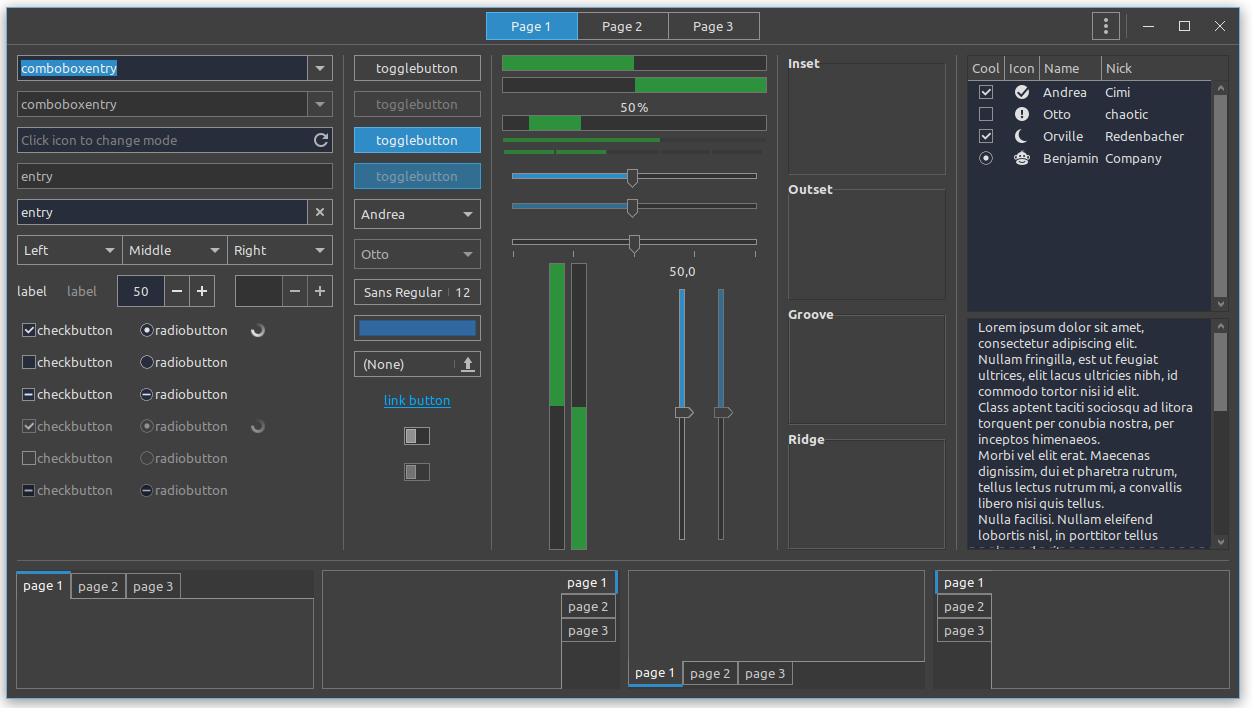
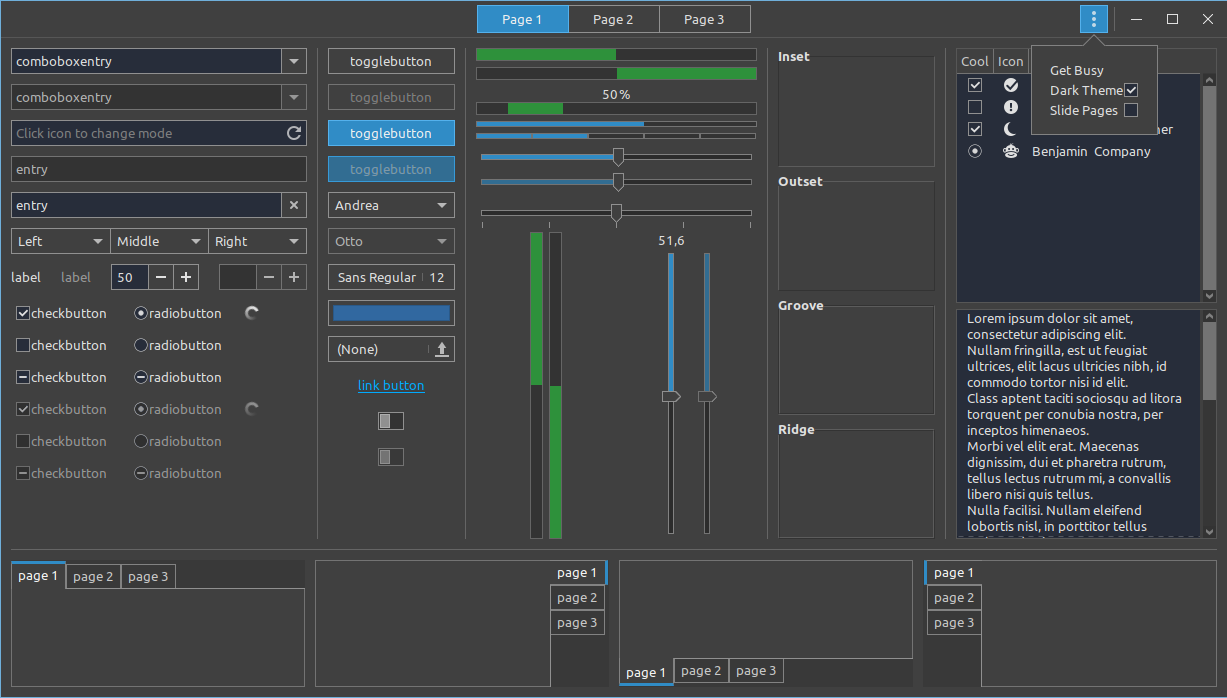
0.18  levelbar, spinbutton:disabled

Changed region(s): [[0.0, 0.0, 1.0, 1.0], [0.6194, 0.6017, 0.6813, 0.6318], [0.6194, 0.4212, 0.6813, 0.4513]]

diff --git a/W9-Dark/gtk-3.20/gtk.css b/W9-Dark/gtk-3.20/gtk.css
@@ -1,4 +1,5 @@
 /*
+0.18  levelbar, spinbutton:disabled
 0.17  progressbar height 11px
 0.16  Gtk3 combobox height
 0.12 levelbar
@@ -1302,9 +1303,9 @@ progressbar {
     progressbar progress:backdrop {
       background-color: shade(#2e913b, 0.9); }
   progressbar trough {
-    border: 1px solid shade(#909090, 0.7);
+    border: 1px solid shade(#909090, 0.75);
     border-radius: 0px;
-    background-color: shade(#404040, 0.8); }
+    background-color: shade(#404040, 0.85); }
     progressbar trough:backdrop {
       background-color: shade(#404040, 0.8); }
   progressbar.horizontal trough, progressbar.horizontal progress {
@@ -1331,36 +1332,45 @@ treeview.view.trough {
 infobar treeview.view trough, row:selected treeview.view trough {
   background-color: shade(#404040, 0.8); }
 
+levelbar block {
+  min-width: 32px;
+  min-height: 1px; }
+levelbar.vertical block {
+  min-width: 1px;
+  min-height: 32px; }
 levelbar trough {
-  padding: 1px;
-  border-radius: 0; }
+  border: 1px solid shade(#909090, 0.8);
+  background-color: #404040; }
+levelbar.horizontal.discrete trough {
+  border: none;
+  }
 levelbar.horizontal.discrete block {
-  margin: 0 1px; }
+    border: 1px solid shade(#909090, 0.8);
+  }
 levelbar.vertical.discrete block {
   margin: 1px 0; }
 levelbar block:not(.empty) {
   border: none;
-  padding: 2px;
-  border-radius: 0px;
+  padding-top: 3px;
   background-color: #308cc6; }
-  levelbar block.high {
-    background-color: #308cc6; }
-  levelbar block.low {
-    background-color: #c6622b; }
+levelbar block.low {
+  background-color: #c6622b; }
+levelbar block.high {
+  background-color: #308cc6; }
 levelbar block.full {
   background-color: #2e913b; }
-  levelbar block.empty {
-    background-color: shade(#404040, 0.7); }
+levelbar block.empty {
+  background-color: shade(#404040, 0.8);  }
 
 scale {
   min-height: 15px;
   min-width: 15px;
   padding: 5px; }
   scale fill, scale trough {
-    border: 1px solid #909090;
+    border: 1px solid shade(#909090, 0.9);
     border-radius: 0;
-    background-color: shade(#404040, 0.8);
-    outline-offset: 2px;
+    background-color: shade(#404040, 0.7);
+    outline-offset: 8px;
     -gtk-outline-radius: 0; }
     scale fill:disabled, scale trough:disabled {
         border-color: shade(#909090, 0.8); }
@@ -1369,7 +1379,7 @@ scale {
     scale fill:backdrop, scale trough:backdrop {
         border-color: shade(#909090, 0.9); }
   scale highlight {
-    background-color: shade(#308cc6, 0.9); }
+    background-color: #308cc6; }
     scale highlight:backdrop {
       background-color: shade(#308cc6, 0.9); }
     scale highlight:disabled {
@@ -1687,6 +1697,8 @@ separator {
   combobox separator {
     border: none; }
 
+spinbutton:not(.vertical) entry {
+  min-width: 26px; }
 spinbutton.horizontal {
   border: 1px solid #909090; }
   spinbutton.horizontal:backdrop {
@@ -1719,6 +1731,9 @@ spinbutton.vertical button.down {
   border-top-width: 0;
   border-top-left-radius: 0;
   border-top-right-radius: 0; }
+spinbutton:disabled {
+  color: shade(#e0e0e0, 0.8); 
+  border-color: shade(#909090, 0.8); }
 
 @keyframes spin {
   to {
